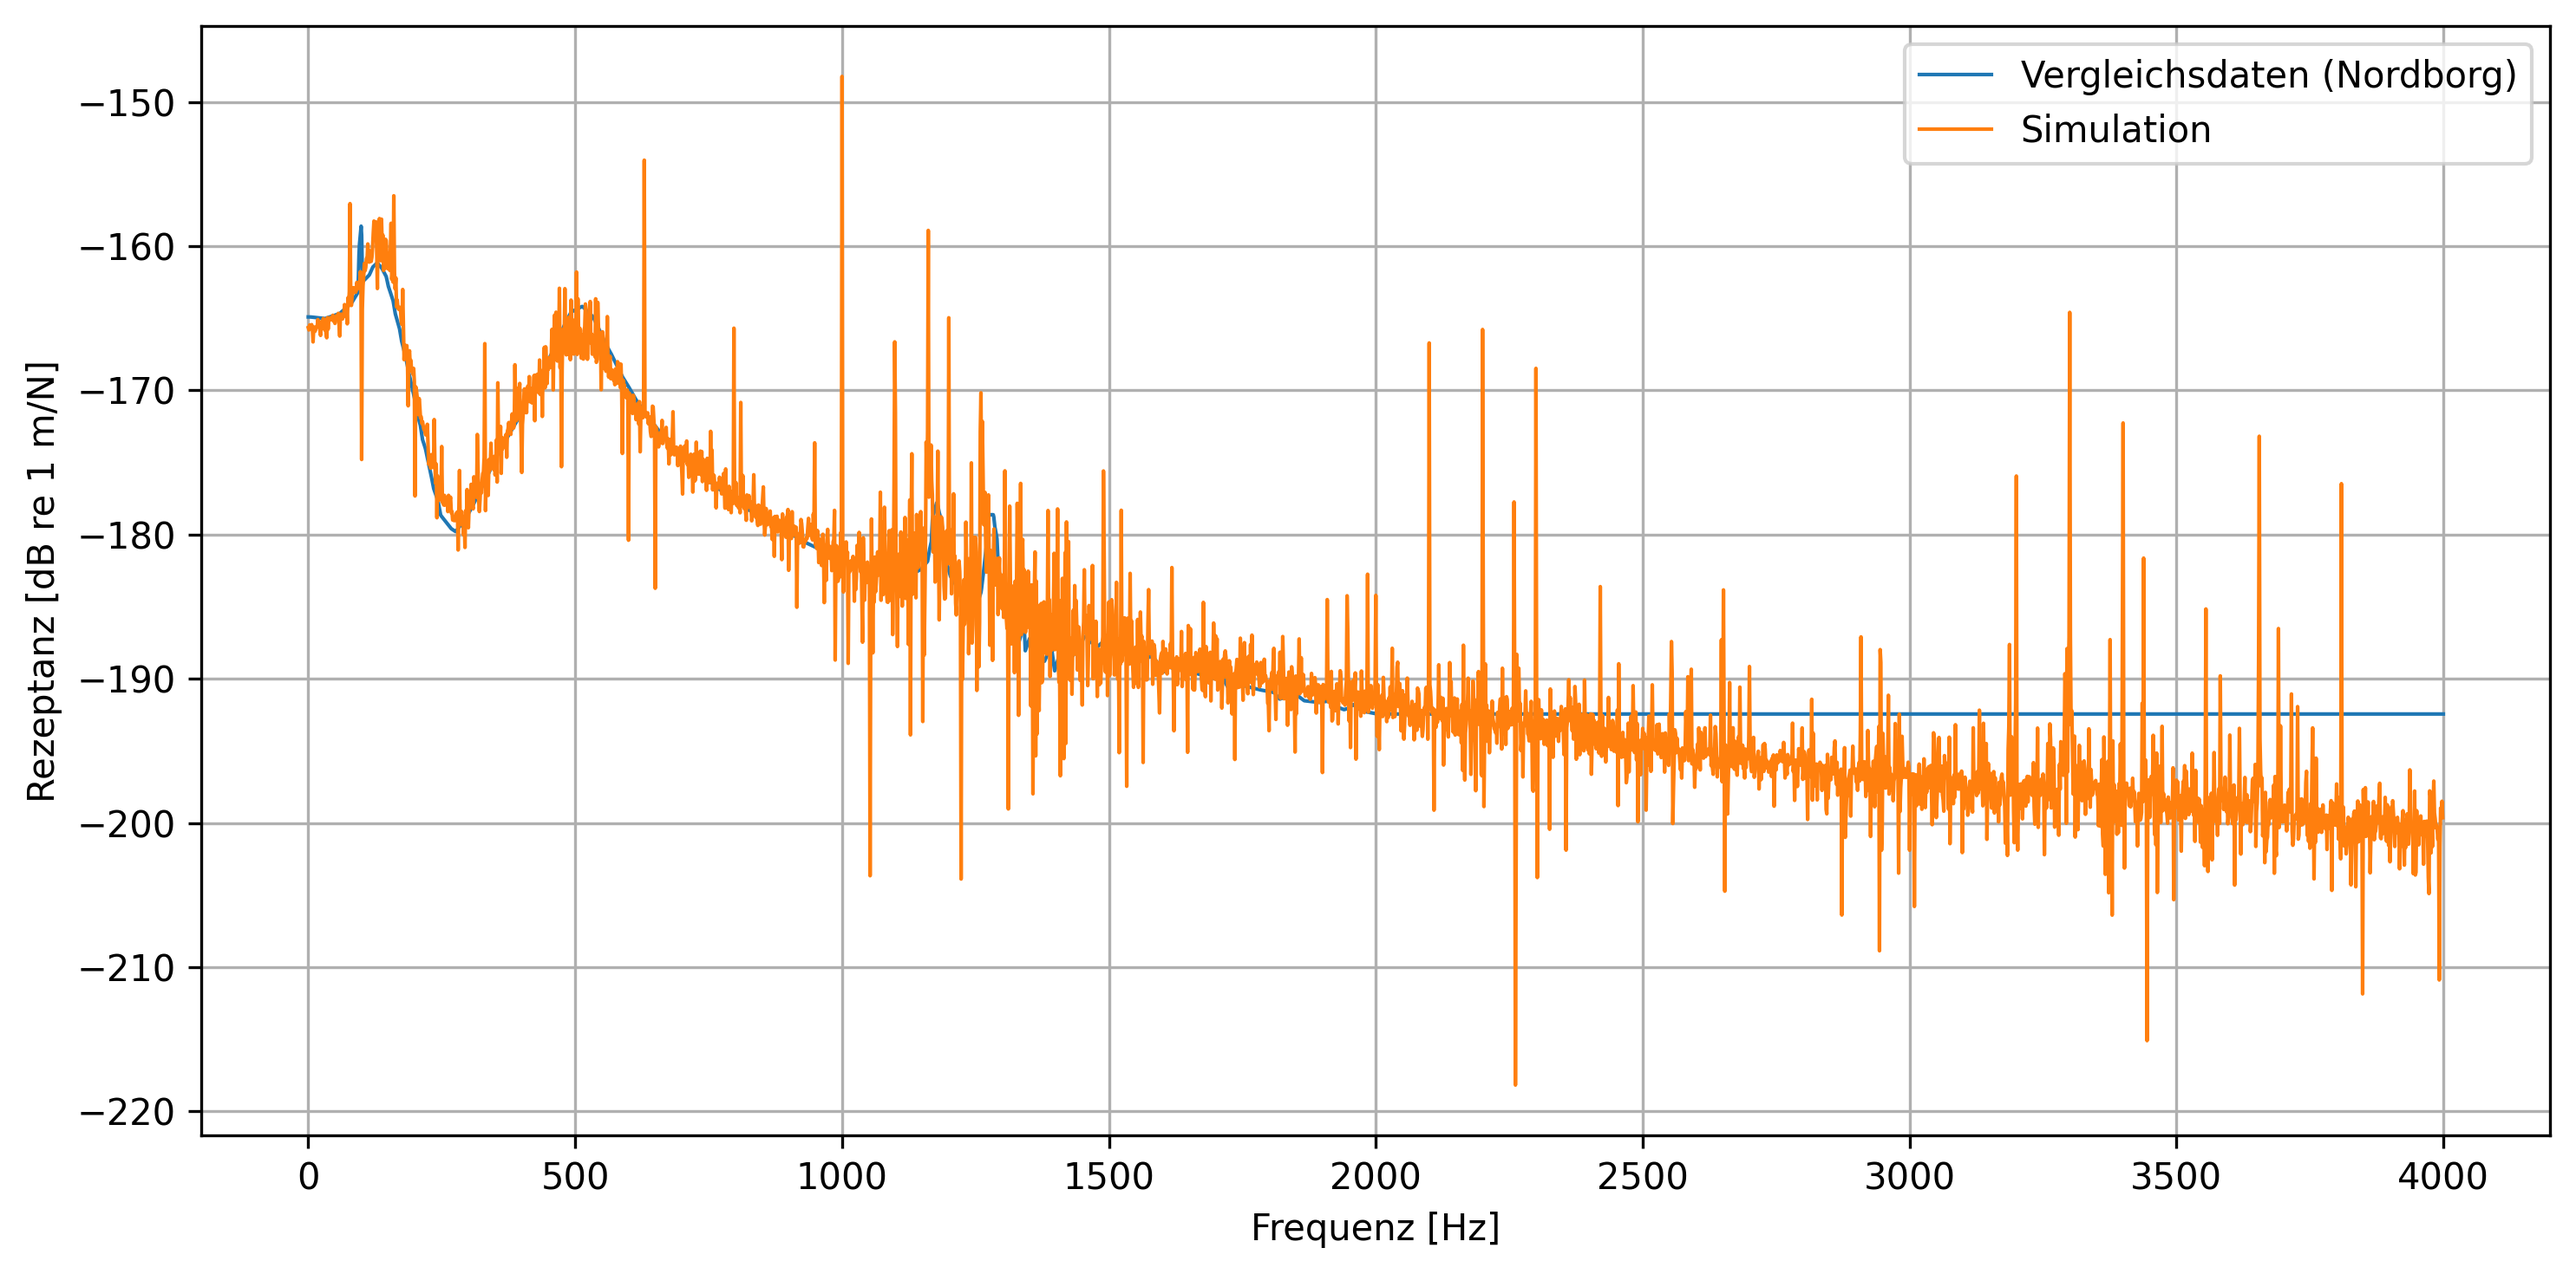
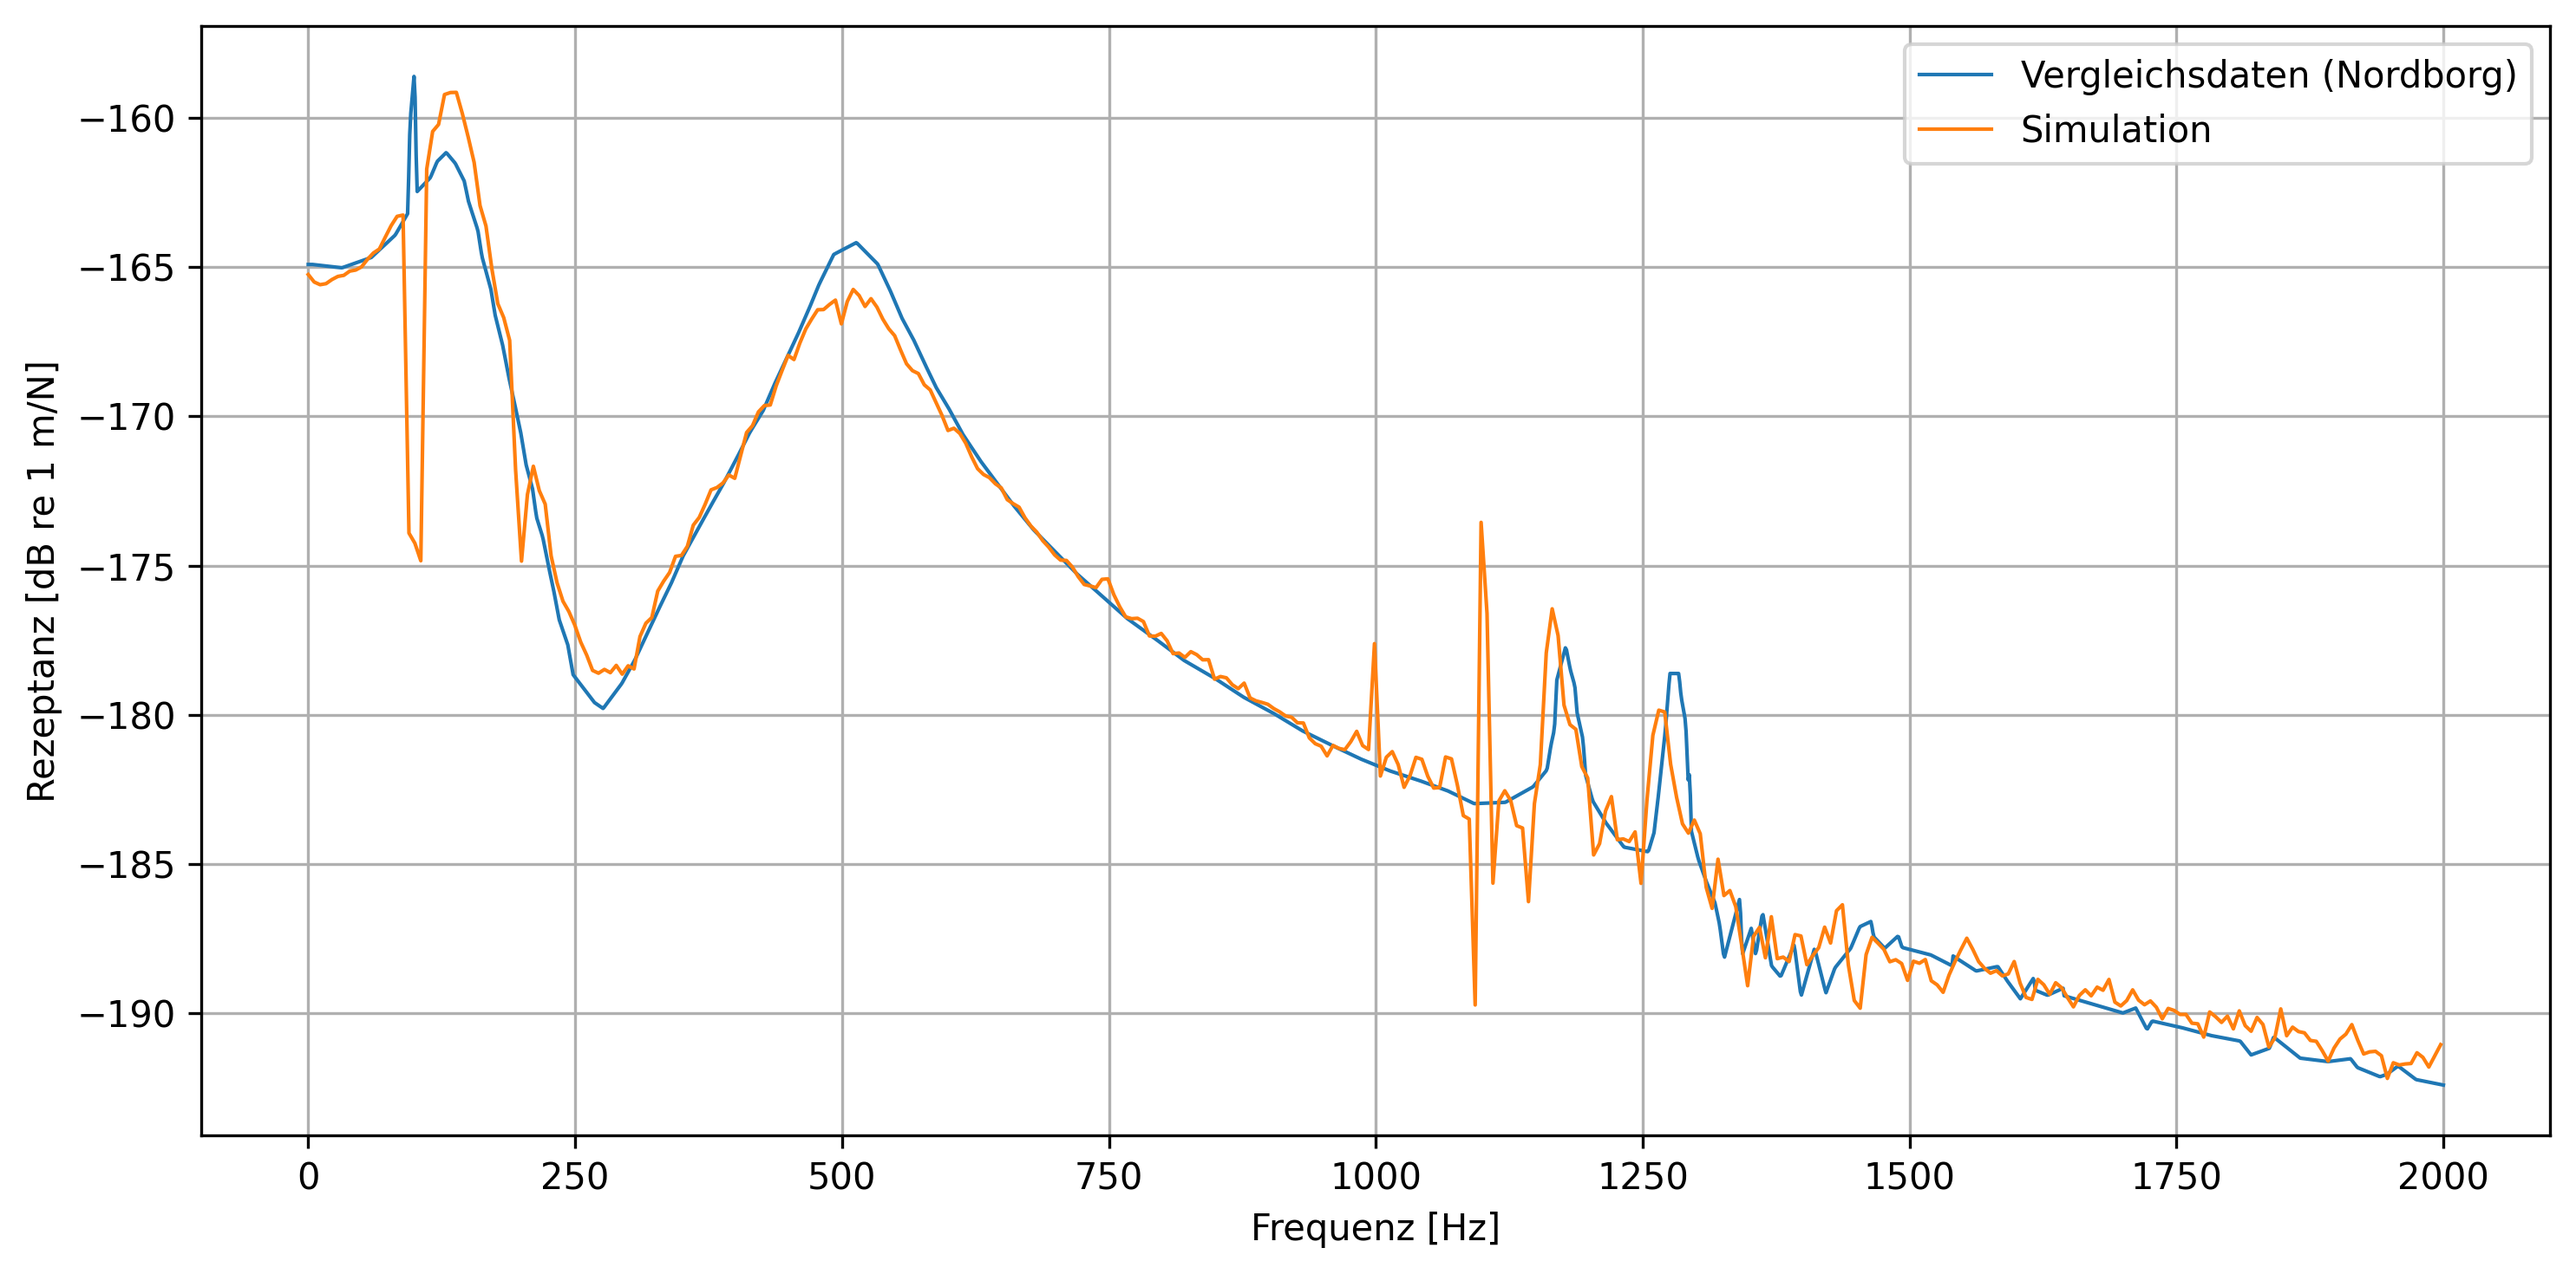
PSD based roughness introduced welch method implemented --> extremely clean results, following Nordborg the whole way!

diff --git a/Moving_Force.py b/Moving_Force.py
@@ -30,6 +30,8 @@ import os
 import csv
 import math
 from scipy.fft  import fft, fftfreq
+from scipy.signal import welch
+from scipy.signal import csd
 from pathlib    import Path
 import matplotlib.animation as animation
 import pickle
@@ -38,7 +40,7 @@ import pickle
 # =============================================================================
 # 0. TESTING PARAMETERS
 # =============================================================================
-use_precalculated_results = False  # Set to True to use pre-calculated results
+use_precalculated_results = True  # Set to True to use pre-calculated results
 store_deflection          = True   # TODO: this is not implemented yet!
 starting_position         = 80.0   # Starting position [m]
 num_mount                 = 400    # Number of discrete mounting positions
@@ -148,22 +150,60 @@ t = np.linspace(0, req_simt, len(deflection_results.contact_point_deflection[0])
 
 # cut the ramp part from the results to avoid transient effects in the FFT
 cut_initial = 10000     # TODO: base this on ramp_fraction and total number of time steps
-freq_limit = 4000
+freq_limit = 2000
 
-# FFT of force, cut ramp part
-force_fft = fft(deflection_results.force[cut_initial:])
+
+
+
+force = deflection_results.force[cut_initial:]
+fs = 1/dt
+
+
+freqs, Pff = welch(force,
+               fs=fs,
+               window="hann",
+               nperseg=8192,
+               noverlap=4096)
+
+
+# # FFT of force, cut ramp part
+# force_fft = fft(force)
+
+
+
+
 
 # Process each contact point
 for i, deflection in enumerate(deflection_results.contact_point_deflection):
+    deflection = deflection[cut_initial:]  # cut ramp part
+    
+    freqs, Pyy = welch(deflection,
+                fs=fs,
+                window="hann",
+                nperseg=8192,
+                noverlap=4096)
+    
+    f, Pyf = csd(deflection, force,
+             fs=fs,
+             window="hann",
+             nperseg=8192,
+             noverlap=4096)
+
+
 
     # Fast Fourier Transform of deflection at contact point
-    deflection_fft = fft(deflection[cut_initial:])  # FFT of deflection at contact point, cut ramp part
-    freqs = fftfreq(len(t[cut_initial:]), dt)       # FFT sample frequencies
+    # deflection_fft = fft(deflection[cut_initial:])  # FFT of deflection at contact point, cut ramp part
+    # freqs = fftfreq(len(t[cut_initial:]), dt)       # FFT sample frequencies
     omega = 2 * np.pi * freqs                       # FFT angular sample frequencies
     
     # Calculate FRFs
-    mobility = 1j * omega * deflection_fft / force_fft  # [m/s/N]
-    receptance = deflection_fft / force_fft             # [m/N]
+    # mobility = 1j * omega * deflection_fft / force_fft  # [m/s/N]
+    # receptance = deflection_fft / force_fft             # [m/N]
+
+    receptance = Pyf / Pff
+    mobility = 1j * omega * receptance
+
+    plt.plot(f, 20*np.log10(abs(Pff)))
 
     # Filter to 0-2000 Hz
     mask = (freqs >= 0) & (freqs <= freq_limit)
@@ -235,38 +275,38 @@ plt.close('all')
 
 
 
-# =============================================================================
-# 4.6 Plot deflection as individual frames
-# =============================================================================
-# Create output directory for frames
-frames_dir = output_dir / 'frames'
+# # =============================================================================
+# # 4.6 Plot deflection as individual frames
+# # =============================================================================
+# # Create output directory for frames
+# frames_dir = output_dir / 'frames'
 
-# Clear the frames directory if it already exists
-if frames_dir.exists():
-    for file in frames_dir.glob('*'):
-        file.unlink()  # Delete each file in the directory
-else:
-    frames_dir.mkdir(exist_ok=True)  # Create the directory if it doesn't exist
+# # Clear the frames directory if it already exists
+# if frames_dir.exists():
+#     for file in frames_dir.glob('*'):
+#         file.unlink()  # Delete each file in the directory
+# else:
+#     frames_dir.mkdir(exist_ok=True)  # Create the directory if it doesn't exist
 
-# Extract deflection data
-deflection = np.transpose(deflection_results.deflection)
-deflection = deflection[:, :deflection.shape[1] // 2]  # Take only the rail deflection part
+# # Extract deflection data
+# deflection = np.transpose(deflection_results.deflection)
+# deflection = deflection[:, :deflection.shape[1] // 2]  # Take only the rail deflection part
 
-# Loop through each time step and save a frame as a PNG
-for t_idx in range(deflection.shape[0]): # loop through time steps
-    if (t_idx-4545)//40 == 0 or t_idx%200 == 0:  # Save every 20th frame to reduce number of images
-        plt.figure(figsize=(10, 5))
-        plt.plot(deflection[t_idx, :], lw=2, label='Deflection')
-        plt.xlim(0, deflection.shape[1])  # Set x-axis limits to the number of discrete points
-        plt.ylim(np.max(deflection), np.min(deflection))
-        plt.xlabel('Position along the rail')
-        plt.ylabel('Deflection [m]')
-        plt.title(f'Rail Deflection - Time Step {t_idx}')
-        plt.grid(True)
-        plt.legend()  # Add legend to show labels
-        plt.tight_layout()
-        plt.savefig(frames_dir / f'frame_{t_idx:04d}.png', dpi=300, bbox_inches='tight')
-        plt.close()
+# # Loop through each time step and save a frame as a PNG
+# for t_idx in range(deflection.shape[0]): # loop through time steps
+#     if (t_idx-4545)//40 == 0 or t_idx%200 == 0:  # Save every 20th frame to reduce number of images
+#         plt.figure(figsize=(10, 5))
+#         plt.plot(deflection[t_idx, :], lw=2, label='Deflection')
+#         plt.xlim(0, deflection.shape[1])  # Set x-axis limits to the number of discrete points
+#         plt.ylim(np.max(deflection), np.min(deflection))
+#         plt.xlabel('Position along the rail')
+#         plt.ylabel('Deflection [m]')
+#         plt.title(f'Rail Deflection - Time Step {t_idx}')
+#         plt.grid(True)
+#         plt.legend()  # Add legend to show labels
+#         plt.tight_layout()
+#         plt.savefig(frames_dir / f'frame_{t_idx:04d}.png', dpi=300, bbox_inches='tight')
+#         plt.close()
 
 
 # # 4.1 Plot deflection over time
@@ -294,13 +334,15 @@ for t_idx in range(deflection.shape[0]): # loop through time steps
 #     plot_type='loglog',
 # )
 
-# # 4.4 Calculate Track Decay Rate (TDR)
-# tdr = TDR(results = deflection_results)
+# 4.4 Calculate Track Decay Rate (TDR)
+tdr = TDR(results = deflection_results)
 
-# # 4.5 Plot Track Decay Rate (TDR)
-# resp.plot([(tdr.freq, tdr.tdr)],
-#     # ['SimplePeriodicBallastedSingleRailTrack'],
-#     title='Track-Decay-Rate',
-#     x_label='f [Hz]',
-#     y_label='TDR [dB/m]',
-#     plot_type='loglog')
+# 4.5 Plot Track Decay Rate (TDR)
+plt.figure()
+resp.plot([(tdr.freq, tdr.tdr)],
+    title='Track-Decay-Rate',
+    x_label='f [Hz]',
+    y_label='TDR [dB/m]',
+    plot_type='loglog')
+plt.savefig(str(output_dir / 'track_decay_rate.png'), dpi=300, bbox_inches='tight')
+plt.close()

diff --git a/rolland/deflection.py b/rolland/deflection.py
@@ -205,13 +205,13 @@ class DeflectionEBBVertic(Deflection):
 
                 r = np.real(np.fft.ifft(roughness_fft))
 
-                r *= 5e-6/np.std(r)   # RMS ~5 µm
+                r *= 12e-6/np.std(r)   # RMS ~5 µm
 
 
-                # self.excit.roughness = list(r)
+                self.excit.roughness = list(r)
 
 
-                self.excit.roughness = list(8e-6 * np.random.randn(n))   # TODO: move roughness generation to excitation class and make it more realistic (e.g., using a power spectral density)
+                # self.excit.roughness = list(8e-6 * np.random.randn(n))   # TODO: move roughness generation to excitation class and make it more realistic (e.g., using a power spectral density)
 
 
 
@@ -228,7 +228,7 @@ class DeflectionEBBVertic(Deflection):
                     # Calculate geometric penetration
                     # TODO: get this right, check directions of deflection and roughness, and add wheel deflection
                     # y_r: rail deflection, positive if rail moves downwards
-                    delta_lin = self.y_static - y_r + y_s
+                    delta_lin = self.y_static - y_r + y_s + y_w
                     delta_lin += delta_0
 
                     if delta_lin <= 0: # NOTE: should we check before adding delta_0?
